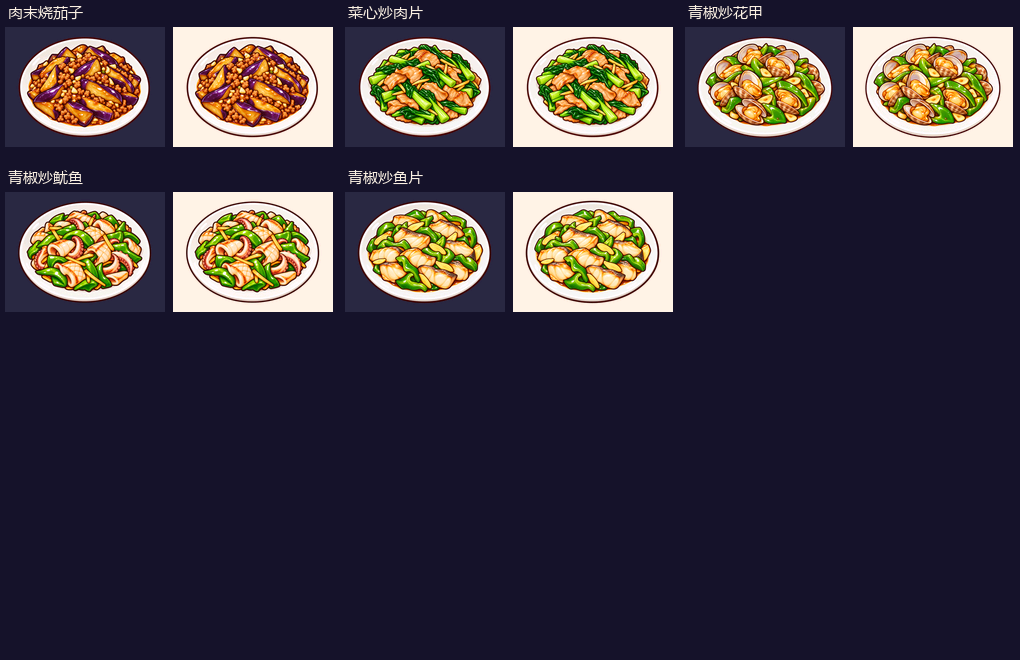
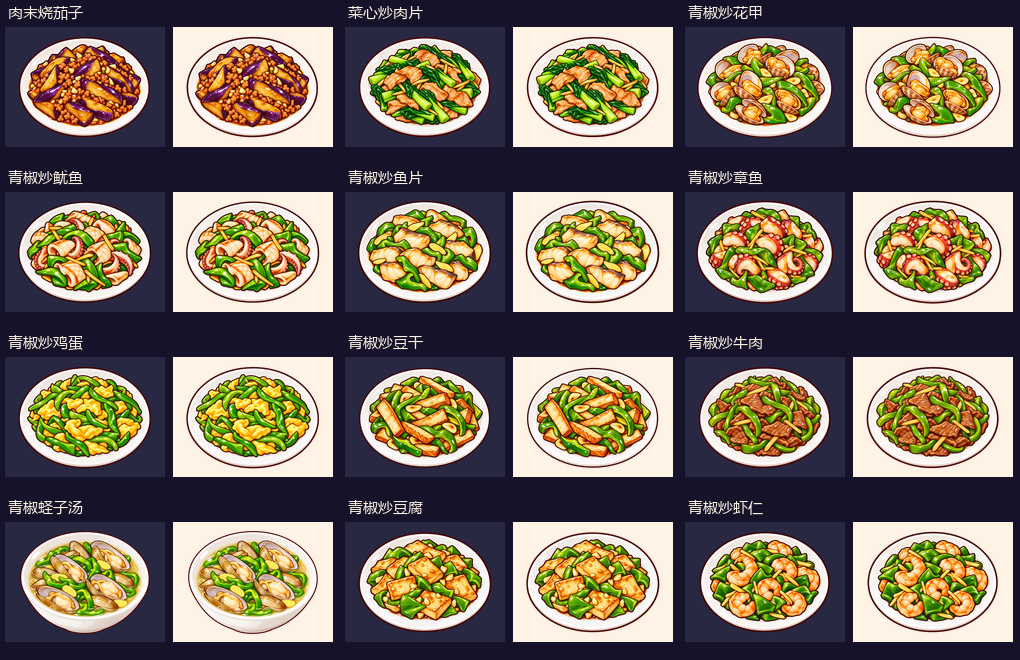
art: checkpoint additional complete dish illustrations

diff --git a/game-art/kitchen/dish-hero/batches/2026-10-29/VISUAL_REVIEW.md b/game-art/kitchen/dish-hero/batches/2026-10-29/VISUAL_REVIEW.md
@@ -1,0 +1,17 @@
+# 本批视觉复核
+
+工程检查及逐图交付状态见 manifest；所有交付保持 review。
+
+## 待局部返修
+
+- `hero_qingjiao-chengzi-tang`：首稿把蛏子画成了偏宽的椭圆贝壳。需按 `ingredients/razor_clam.png` 的细长竹筒形壳和长条贝肉纠正；保留青椒、姜、汤碗与透明背景。等待当前出图队列结束后局部返修，避免并行改同一条元数据。
+
+## 已处理
+
+- `hero_qingzheng-luyu`：拒收鱼尾贴边的首稿，重新生成完整留边版本后登记。
+
+## 仍需人工验收
+
+- 精确盘心、描边及全套菜图风格一致性。
+- 各配方的食材形态、数量表现与真实成菜准确度。
+- 新资源在实际工牌上的显示与使用。
